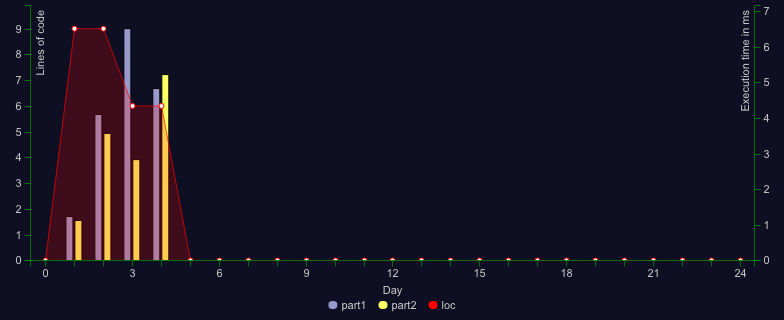
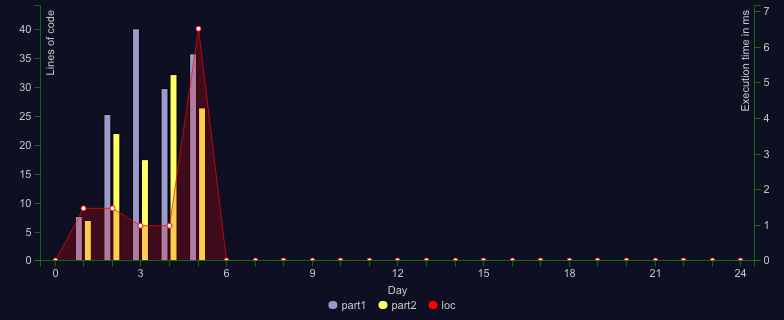
day 5: done

diff --git a/src/day05/index.ts b/src/day05/index.ts
@@ -1,0 +1,105 @@
+import run from "aocrunner"
+import {
+  addIndex,
+  adjust,
+  apply,
+  complement,
+  concat,
+  converge,
+  drop,
+  dropLast,
+  equals,
+  filter,
+  fromPairs,
+  head,
+  identity,
+  join,
+  map,
+  match,
+  pipe,
+  prop,
+  reduce,
+  reverse,
+  split,
+  splitEvery,
+  take,
+  transpose,
+  values,
+} from "ramda"
+import { splitBlocks, splitLines } from "../utils/index.js"
+
+const parseCrates: (line: string) => string[] = pipe(split(""), splitEvery(4), map(prop<string>(1)))
+const buildStack: (block: string) => Record<string, string[]> = pipe(
+  splitLines,
+  map(parseCrates),
+  dropLast(1),
+  transpose,
+  map(filter((x) => x !== " ")),
+  mapIndexed((val, index) => [index, val]),
+  fromPairs,
+)
+
+const parseCommands: (block: string) => number[][] = pipe(
+  match(/(\d+)/g),
+  map(Number),
+  splitEvery(3) as (xs: number[]) => number[][],
+  map(mapIndexed((val, index) => val - 1 * (index !== 0))),
+)
+
+const parseInput: (raw: string) => [Record<string, string[]>, number[][]] = pipe(
+  splitBlocks,
+  adjust(0, buildStack),
+  adjust(1, parseCommands),
+)
+
+const solve = (part1: boolean) =>
+  pipe(
+    parseInput,
+    apply(
+      reduce((acc, [count, from, to]) => ({
+        ...acc,
+        [from]: drop(count, acc[from]),
+        [to]: converge(concat, [
+          pipe(prop(from), take(count), part1 ? reverse : identity),
+          prop(to),
+        ])(acc),
+      })),
+    ),
+    values,
+    map(head),
+    join(""),
+  )
+
+const part1 = solve(true)
+const part2 = solve(false)
+
+run({
+  part1: {
+    tests: [
+      {
+        input: `    [D]    
+[N] [C]    
+[Z] [M] [P]
+1   2   3 
+
+move 1 from 2 to 1
+move 3 from 1 to 3
+move 2 from 2 to 1
+move 1 from 1 to 2`,
+        expected: "CMZ",
+      },
+    ],
+    solution: part1,
+  },
+  part2: {
+    tests: [
+      // {
+      //   input: ``,
+      //   expected: "",
+      // },
+    ],
+    solution: part2,
+  },
+  trimTestInputs: false,
+  onlyTests: false,
+})

diff --git a/src/utils/index.ts b/src/utils/index.ts
@@ -1,8 +1,10 @@
-import { converge, curry, head, nthArg, reduce, split, tail, tap } from "ramda"
+import { addIndex, converge, curry, head, map, nthArg, reduce, split, tail, tap } from "ramda"
 
 export const log = tap(console.log)
 export const splitLines = split("\n")
+export const splitBlocks = split(/\n{2,}/g)
 export const toCharCode = (char: string) => char.charCodeAt(0)
 export const chars = split("")
 export const splitPair = split(" ") as (input: string) => [string, string]
 export const todo = () => undefined
+export const mapIndexed = addIndex(map)

diff --git a/src/template/index.ts b/src/template/index.ts
@@ -1,12 +1,12 @@
 import run from "aocrunner"
 import { pipe } from "ramda"
-import { log } from "../utils/index.js"
+import { log, todo } from "../utils/index.js"
 
 const parseInput = (rawInput: string) => rawInput
 
 const part1 = pipe(parseInput, log)
 
-const part2 = pipe(parseInput, log)
+const part2 = pipe(parseInput, todo)
 
 run({
   part1: {
@@ -28,5 +28,5 @@ run({
     solution: part2,
   },
   trimTestInputs: true,
-  onlyTests: false,
+  onlyTests: true,
 })

diff --git a/README.md b/README.md
@@ -20,7 +20,7 @@
 [![Day](https://badgen.net/badge/02/%E2%98%85%E2%98%85/green)](src/day02)
 [![Day](https://badgen.net/badge/03/%E2%98%85%E2%98%85/green)](src/day03)
 [![Day](https://badgen.net/badge/04/%E2%98%85%E2%98%85/green)](src/day04)
-![Day](https://badgen.net/badge/05/%E2%98%86%E2%98%86/gray)
+[![Day](https://badgen.net/badge/05/%E2%98%85%E2%98%85/green)](src/day05)
 ![Day](https://badgen.net/badge/06/%E2%98%86%E2%98%86/gray)
 ![Day](https://badgen.net/badge/07/%E2%98%86%E2%98%86/gray)
 ![Day](https://badgen.net/badge/08/%E2%98%86%E2%98%86/gray)
@@ -95,16 +95,16 @@ Both parts: 9.327688ms
 
 ```
 Day 04
-Time part 1: 5.46ms
-Time part 2: 5.062ms
-Both parts: 10.522628000000001ms
+Time part 1: 4.82ms
+Time part 2: 5.213ms
+Both parts: 10.033066999999999ms
 ```
 
 ```
 Day 05
-Time part 1: -
-Time part 2: -
-Both parts: -
+Time part 1: 2.679ms
+Time part 2: 2.966ms
+Both parts: 5.644933ms
 ```
 
 ```
@@ -248,8 +248,8 @@ Both parts: -
 ```
 
 ```
-Total stars: 8/50
-Total time: 29.865ms
+Total stars: 10/50
+Total time: 35.02ms
 ```
 
 <!--/RESULTS-->

diff --git a/src/day05/README.md b/src/day05/README.md
@@ -1,0 +1,9 @@
+# 🎄 Advent of Code 2022 - day 5 🎄
+
+## Info
+
+Task description: [link](https://adventofcode.com/2022/day/5)
+
+## Notes
+
+...
